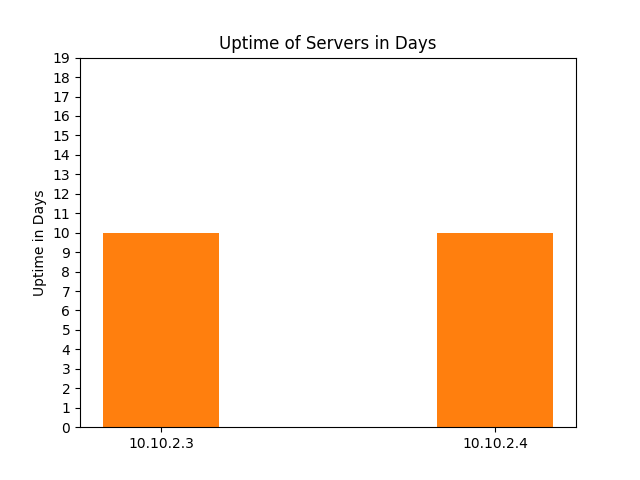
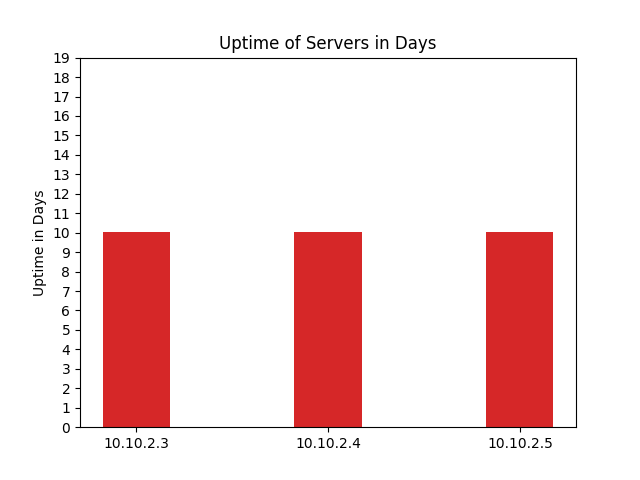
sql operations and python3

Changed region(s): [[0.6562, 0.4688, 0.875, 0.9375], [0.1562, 0.4688, 0.3438, 0.9375], [0.4375, 0.4688, 0.5625, 0.9375]]

diff --git a/sqldb/database03.py b/sqldb/database03.py
@@ -1,0 +1,18 @@
+#!/usr/bin/env python3
+
+import sqlite3
+conn = sqlite3.connect('test.db')
+print("Opened database successfully")
+
+conn.execute("INSERT INTO COMPANY (ID,NAME,AGE,ADDRESS,SALARY) VALUES (1, 'Paul', 32, 'California', 20000.00 )")
+
+conn.execute("INSERT INTO COMPANY (ID,NAME,AGE,ADDRESS,SALARY) VALUES (2, 'Allen', 25, 'Texas', 15000.00 )")
+
+conn.execute("INSERT INTO COMPANY (ID,NAME,AGE,ADDRESS,SALARY) VALUES (3, 'Teddy', 23, 'Norway', 20000.00 )")
+
+conn.execute("INSERT INTO COMPANY (ID,NAME,AGE,ADDRESS,SALARY) VALUES (4, 'Mark', 25, 'Rich-Mond ', 65000.00 )")
+
+conn.commit()
+print("Records created successfully")
+conn.close()
+

diff --git a/sqldb/database05.py b/sqldb/database05.py
@@ -1,0 +1,21 @@
+#!/usr/bin/env python3
+
+import sqlite3
+
+conn = sqlite3.connect('test.db')
+print("Opened database successfully")
+
+conn.execute("UPDATE COMPANY set SALARY = 25000.00 where ID = 1")
+conn.commit()
+print("Total number of rows updated :", conn.total_changes)
+
+cursor = conn.execute("SELECT id, name, address, salary from COMPANY")
+for row in cursor:
+    print("ID = ", row[0])
+    print("NAME = ", row[1])
+    print("ADDRESS = ", row[2])
+    print("SALARY = ", row[3], "\n")
+
+print("Operation done successfully")
+conn.close()
+

diff --git a/sqldb/database06.py b/sqldb/database06.py
@@ -1,0 +1,21 @@
+#!/usr/bin/env python3
+
+import sqlite3
+
+conn = sqlite3.connect('test.db')
+print("Opened database successfully")
+
+conn.execute("DELETE from COMPANY where ID = 2;")
+conn.commit()
+print("Total number of rows deleted :", conn.total_changes)
+
+cursor = conn.execute("SELECT id, name, address, salary from COMPANY")
+for row in cursor:
+    print("ID = ", row[0])
+    print("NAME = ", row[1])
+    print("ADDRESS = ", row[2])
+    print("SALARY = ", row[3], "\n")
+
+print("Operation done successfully")
+conn.close()
+

diff --git a/sqldb/database01.py b/sqldb/database01.py
@@ -1,0 +1,19 @@
+#!/usr/bin/python3
+
+import sqlite3
+conn = sqlite3.connect('test.db')
+print("Opened database successfully")
+#!/usr/bin/env python3
+
+import sqlite3
+conn = sqlite3.connect('test.db')
+print("Opened database successfully")
+conn.execute('''CREATE TABLE COMPANY
+ (ID INT PRIMARY KEY     NOT NULL,
+ NAME           TEXT    NOT NULL,
+ AGE            INT     NOT NULL,
+ ADDRESS        CHAR(50),
+ SALARY         REAL);''')
+print("Table created successfully")
+conn.close()
+

diff --git a/sqldb/database04.py b/sqldb/database04.py
@@ -1,0 +1,15 @@
+#!/usr/bin/env python3
+
+import sqlite3
+conn = sqlite3.connect('test.db')
+print("Opened database successfully")
+cursor = conn.execute("SELECT id, name, address, salary from COMPANY")
+for row in cursor:
+    print("ID = ", row[0])
+    print("NAME = ", row[1])
+    print("ADDRESS = ", row[2])
+    print("SALARY = ", row[3], "\n")
+
+print("Operation done successfully")
+conn.close()
+

diff --git a/sqldb/database02v2.py b/sqldb/database02v2.py
@@ -1,0 +1,15 @@
+#!/usr/bin/env python3
+
+import sqlite3
+conn = sqlite3.connect('test.db')
+print("Opened database successfully")
+conn.execute('''CREATE TABLE IF NOT EXISTS COMPANY
+ (ID INT PRIMARY KEY     NOT NULL,
+ NAME           TEXT    NOT NULL,
+ AGE            INT     NOT NULL,
+ ADDRESS        CHAR(50),
+ SALARY         REAL);''')
+print("Table created successfully")
+conn.close()
+
+

diff --git a/flaskapi/graphapp01.py b/flaskapi/graphapp01.py
@@ -36,7 +36,7 @@ def graphin():
     svruptime = tuple(svruptime)
 
     # graphin
-    N = 2 # total number of bars
+    N = len(xtick) # total number of bars
     ind = np.arange(N)    # the x locations for the groups
     width = 0.35       # the width of the bars: can also be len(x) sequence
     p1 = plt.bar(ind, svruptime, width)
